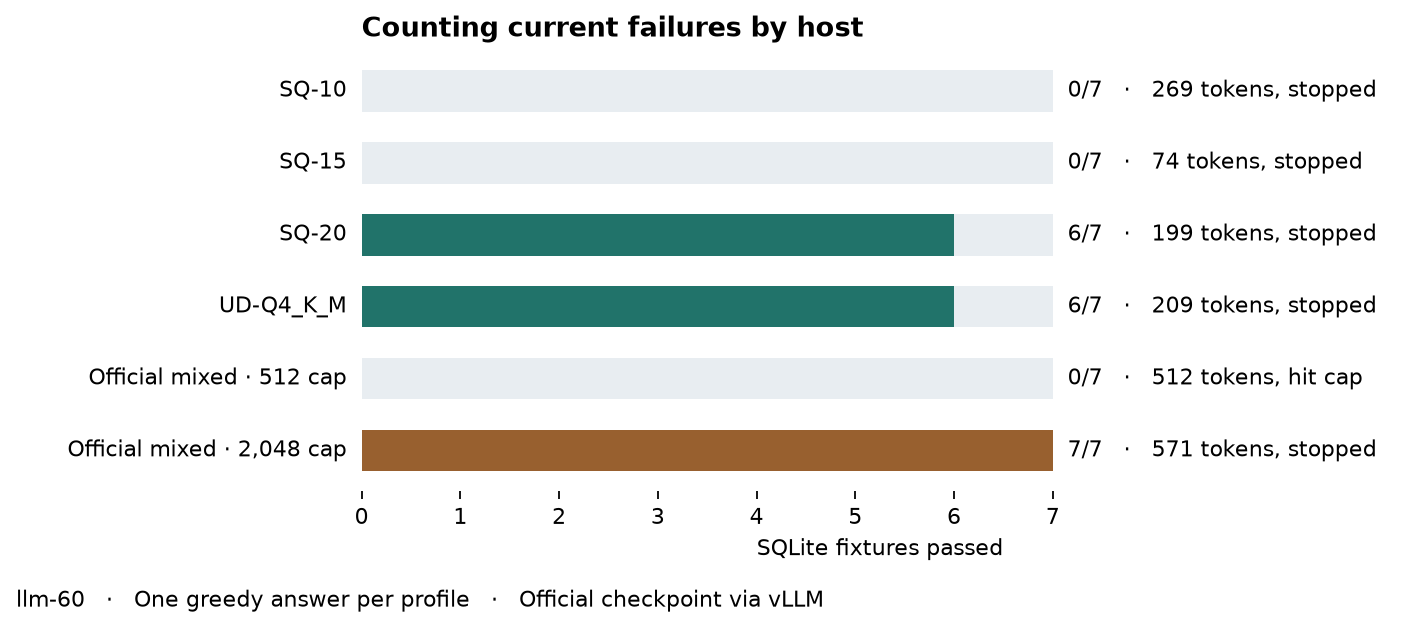
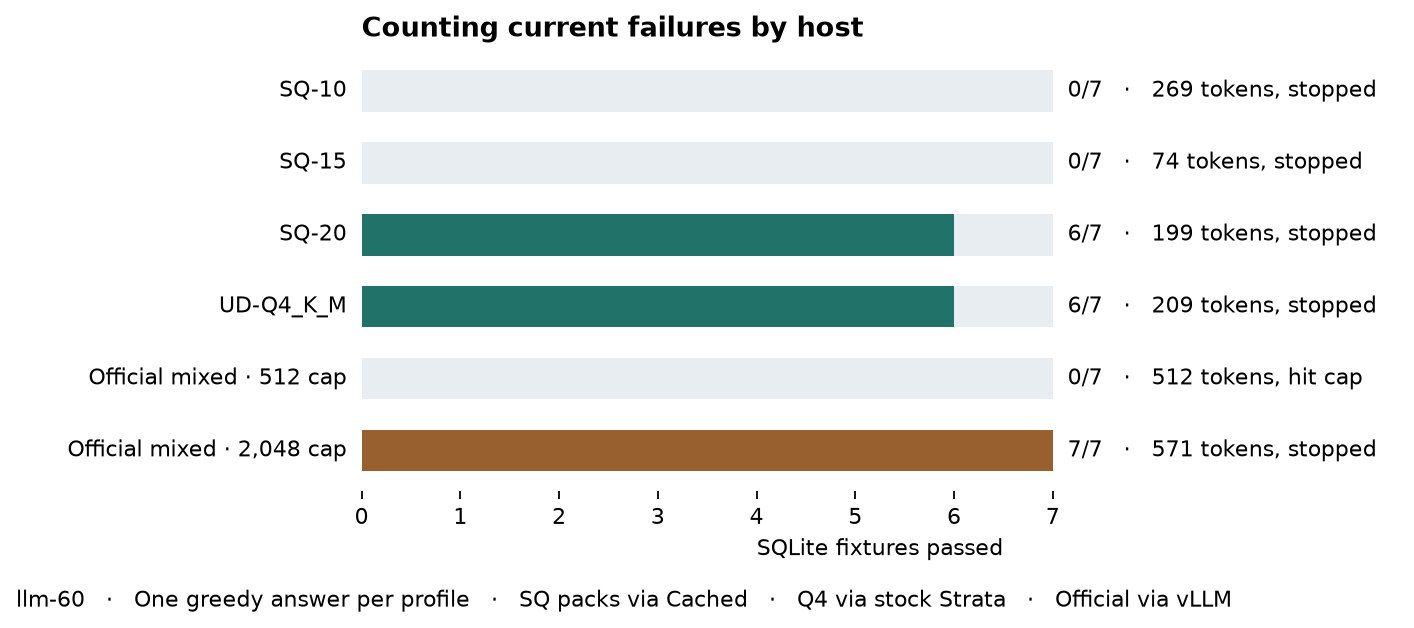
Identify each serving engine in the service-status comparison

Changed region(s): [[0.3734, 0.9379, 0.7157, 0.9682], [0.7468, 0.9379, 0.8713, 0.9682]]

diff --git a/docs/benchmarks/inkling/plot_service_sql.py b/docs/benchmarks/inkling/plot_service_sql.py
@@ -26,6 +26,6 @@ ax.invert_yaxis()
 ax.set(xlim=(0, 10.5), xticks=range(8), yticks=[], xlabel="SQLite fixtures passed")
 ax.spines[:].set_visible(False)
 ax.set_title("Counting current failures by host", loc="left", weight="bold")
-fig.text(.03, .01, "llm-60   ·   One greedy answer per profile   ·   Official checkpoint via vLLM")
+fig.text(.03, .01, "llm-60   ·   One greedy answer per profile   ·   SQ packs via Cached   ·   Q4 via stock Strata   ·   Official via vLLM")
 fig.subplots_adjust(left=.27, right=.99, bottom=.19)
 fig.savefig(root / "linux-service-sql.png", dpi=160, bbox_inches="tight")

diff --git a/docs/benchmarks/inkling/qualification.md b/docs/benchmarks/inkling/qualification.md
@@ -29,7 +29,7 @@ Results cover the RTX PRO 6000 Blackwell on llm-60 unless a row identifies anoth
 | Fixed-rank rounds and retention | Partial | A fresh rank-4 residual combined with its rank-4 parent. Compressing the rank-8 sum to rank 4 lost one correct answer. Both optimizers reproduced the compressed export after a process restart and trained another round using it as the parent. On SQ-10, both optimizers also reproduced the second-round rank-4 compressed export and complete third optimizer step after restart. On two executable tasks, a second Muon round lost the base’s file-mode answer at combined rank 8 and remained wrong after compression to rank 4. AdamW retained it at both ranks. No profile fixed the SQL miss. [Per-task retention](sq10-round-retention.csv). Broader independent skill evaluation remains open. |
 | Gain and regression tracking | Pass for the station evaluation | Per-question records preserve corrections and prior successes and identify gains and losses at every round. Failure-only practice reached 53/54 on the repeated register. On a fresh register the step-11 candidate scored 21/24 and the base scored 22/24. The base remains the default. |
 | SQ-10 and SQ-15 vision restart | Passed on llm-60 | Each pack answered four color and spatial questions correctly. A fresh process reproduced the checkpoint hash and generated tokens in every case. One restart per pack. [Case results](vision-pack-restarts.csv) |
-| Linux service-status SQL | Executed one greedy answer per SQ pack on llm-60 | Count failing services by host from the latest timestamp and sequence, preserving healthy hosts. SQ-10 supplied multiple statements and SQ-15 compared a two-column tuple with a single-column subquery. Both failed all seven fixtures. SQ-20 passed six, then failed a case where the latest failure had a lower sequence than an older success. Its query independently maximized timestamp and sequence. Stock Strata UD-Q4_K_M also passed six of seven and missed the lower-sequence newest failure. The official NVFP4/MXFP8 vLLM deployment reached the 512-token cap and returned incomplete SQL, failing all seven at this budget. With a 2,048-token cap it stopped naturally after 571 completion tokens and passed all seven fixtures. [Longer-budget run](linux-service-sql-official-2048.csv). [SQ results](linux-service-sql.csv) · [Reference runs](linux-service-sql-references.csv) · [Executable fixtures](check_service_sql.py) |
+| Linux service-status SQL | Executed one greedy answer per SQ pack through Cached on llm-60 | Count failing services by host from the latest timestamp and sequence, preserving healthy hosts. SQ-10 supplied multiple statements and SQ-15 compared a two-column tuple with a single-column subquery. Both failed all seven fixtures. SQ-20 passed six, then failed a case where the latest failure had a lower sequence than an older success. Its query independently maximized timestamp and sequence. Stock Strata UD-Q4_K_M also passed six of seven and missed the lower-sequence newest failure. The official NVFP4/MXFP8 vLLM deployment reached the 512-token cap and returned incomplete SQL, failing all seven at this budget. With a 2,048-token cap it stopped naturally after 571 completion tokens and passed all seven fixtures. [Longer-budget run](linux-service-sql-official-2048.csv). [SQ results](linux-service-sql.csv) · [Reference runs](linux-service-sql-references.csv) · [Executable fixtures](check_service_sql.py) |
 | Historical Python grader repair | One greedy attempt per profile on llm-60 | Given the grader from the parent of ba0693f, fix empty-result column validation and support recursive queries. The historical grader passed 6/9 checks and the committed repair passed 9/9. Cached SQ-10 passed 5/9, SQ-15 and SQ-20 each passed 6/9, and stock Strata Q4 passed 7/9. vLLM with the official NVFP4/MXFP8 checkpoint exhausted 1,536 completion tokens without returning a visible function, receiving zero credit. An 8,192-context rerun exhausted 4,096 completion tokens and again returned no visible function. [Longer-budget checks](historical-grader-repair-4096.csv). [Per-check results](historical-grader-repair.csv) · [Executable regression checks](check_grader_repair.py) |
 | Coding and Linux quantization pilot | Measured on llm-60 | With every expert resident, stock Strata answered eight short questions using each pack. SQ-10 got seven underlying answers right, SQ-15 and SQ-20 six each, and Unsloth UD-Q4_K_M five. Greedy decoding, reasoning off, one attempt per question. Task execution and full-repository repair remain outside this pilot. [Domain scores](quant-pilot.csv) · [Model file sizes on llm-60](quant-pack-files.csv) |
 | Resident continuation with explicit exactness settings | Repeat pass on llm-60 | On the 737-token Linux prompt, current SQ-20 with 133,120-position capacity, a 1,024 MiB GPU expert budget, GPU execution of cold experts and a fixed cuBLAS workspace repeated one checkpoint payload hash across five one-token probes. Three complete 147-token answers also repeated one payload hash and each got 13/18 counts right. Every request used one resident-parent restore and zero checkpoint import bytes. A second fresh process with a new RAM store regenerated the prompt and reproduced all 147 tokens and the complete payload hash across three more requests. [Six-request restart comparison](linux-rollup-exact-restart.csv). |
